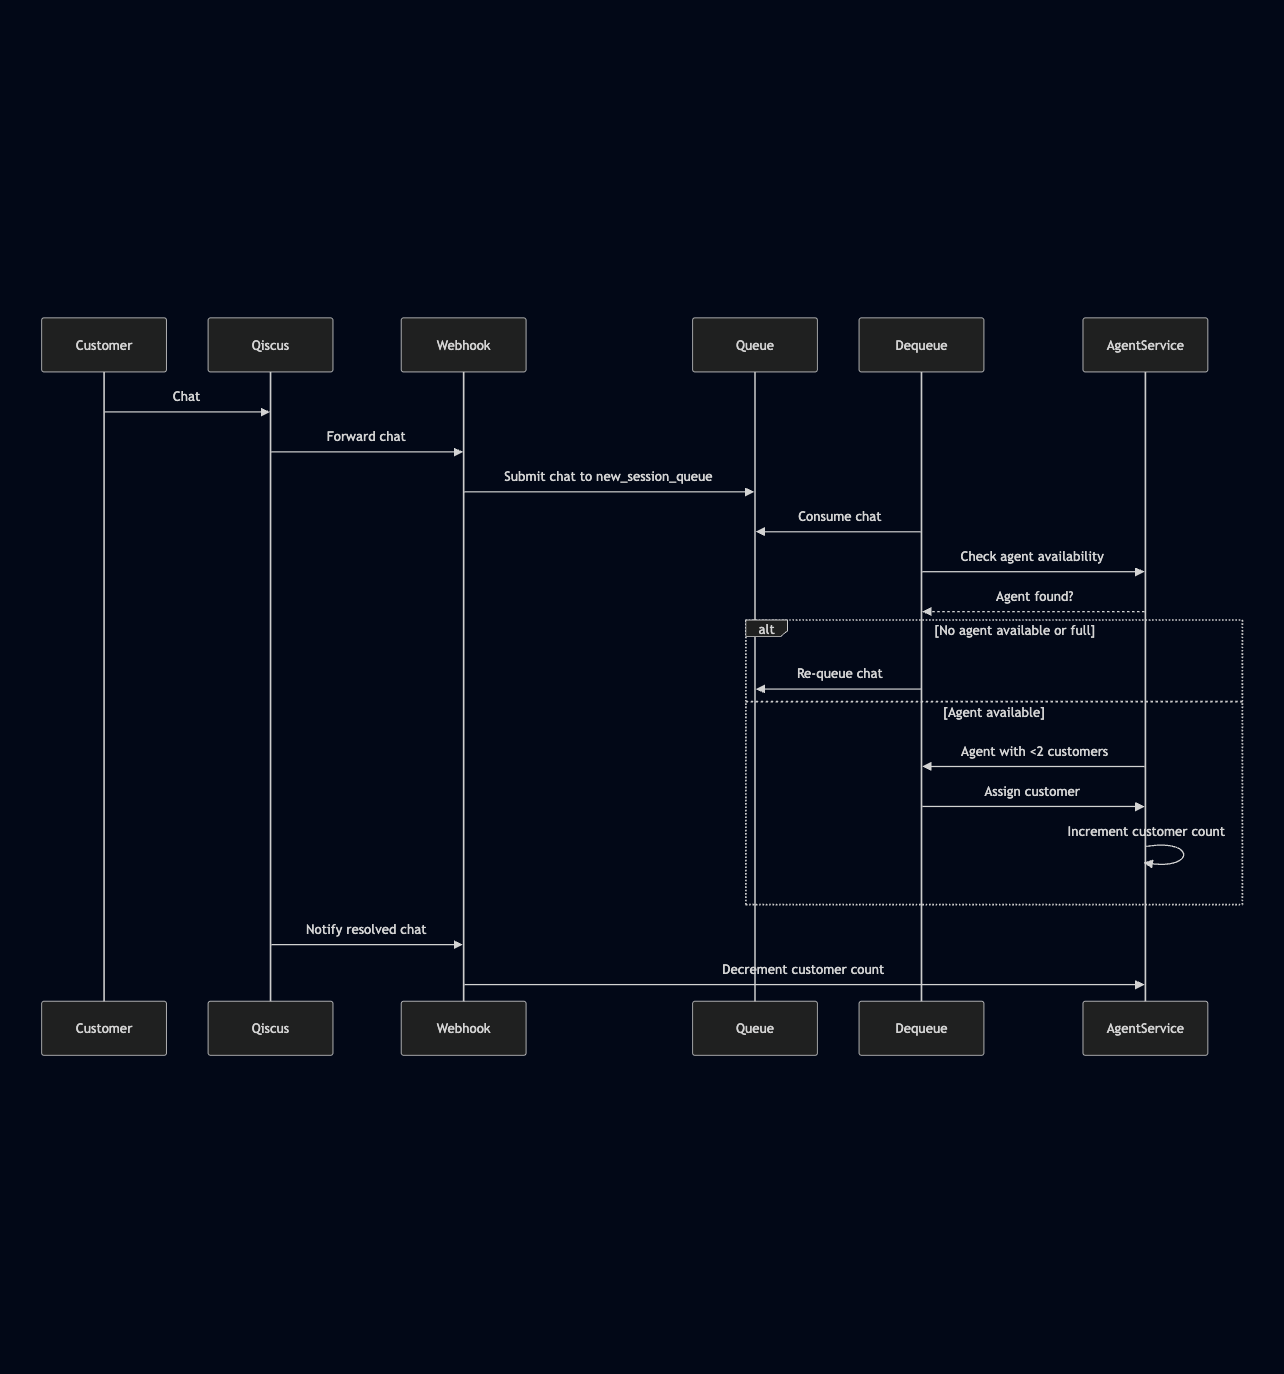
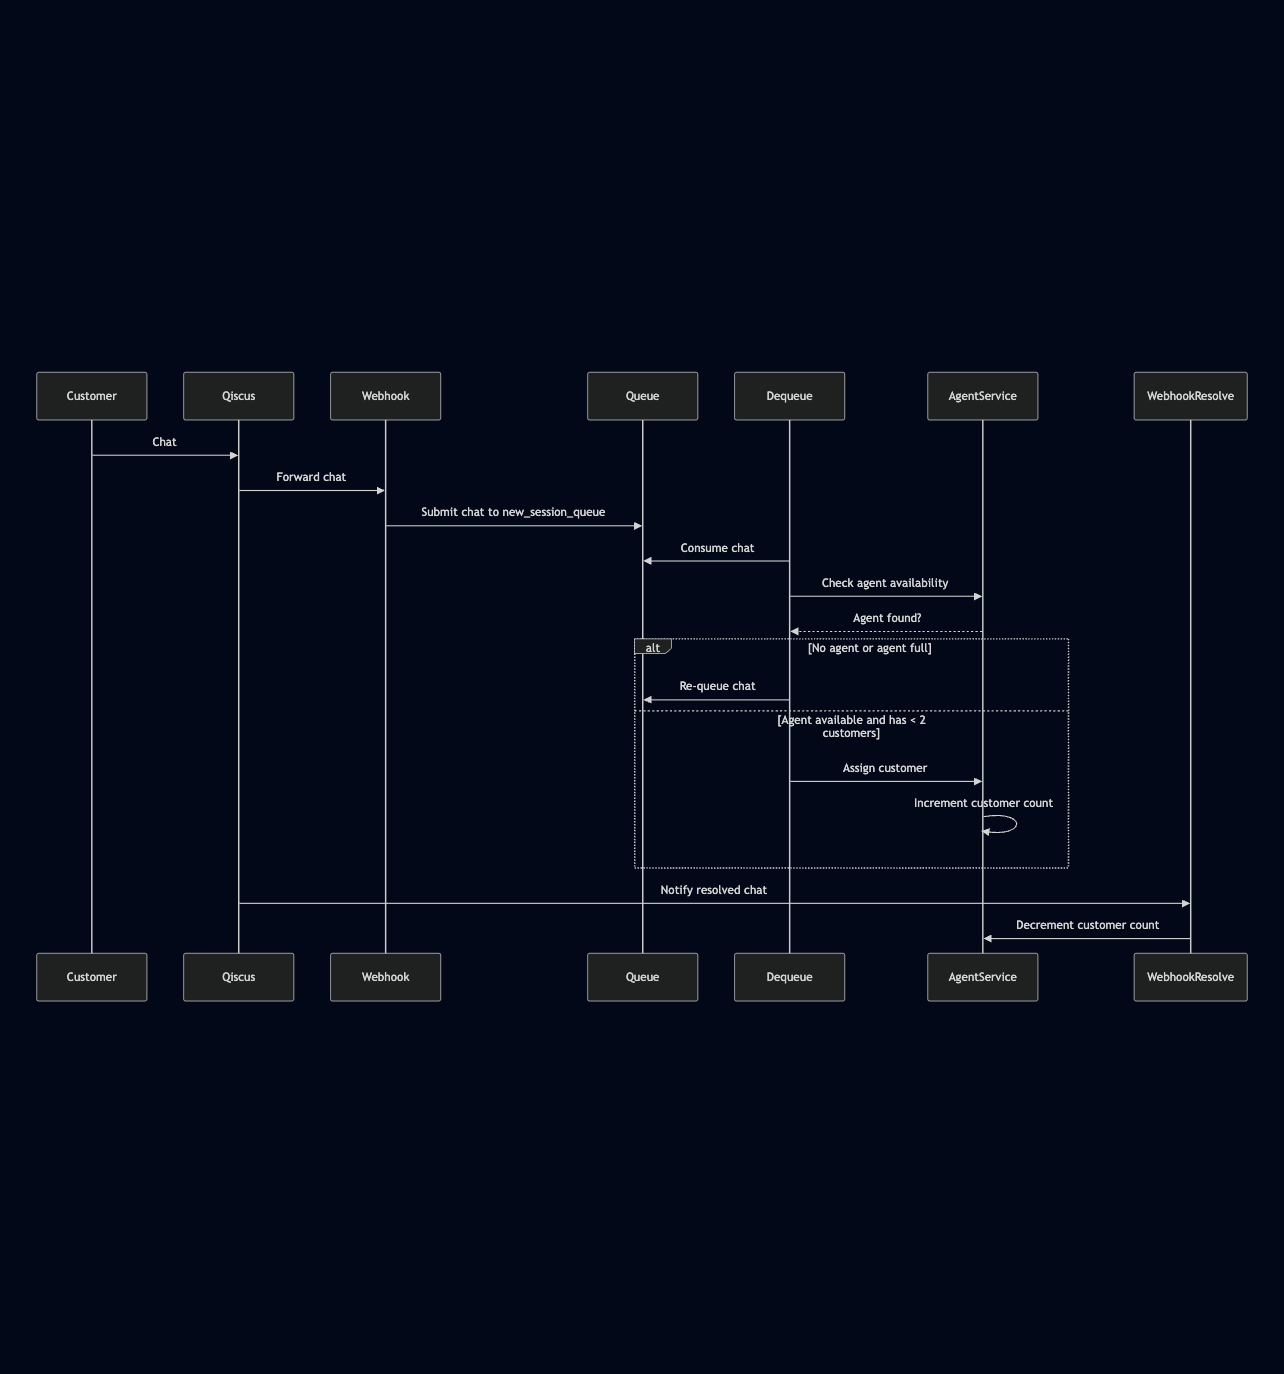
update sequence diagram

diff --git a/README.md b/README.md
@@ -68,6 +68,7 @@ sequenceDiagram
     participant Queue
     participant Dequeue
     participant AgentService
+    participant WebhookResolve
 
     Customer->>Qiscus: Chat
     Qiscus->>Webhook: Forward chat
@@ -77,17 +78,15 @@ sequenceDiagram
     Dequeue->>AgentService: Check agent availability
     AgentService-->>Dequeue: Agent found?
 
-    alt No agent available or full
+    alt No agent or agent full
         Dequeue->>Queue: Re-queue chat
-    else Agent available
-        AgentService->>Dequeue: Agent with <2 customers
+    else Agent available and has < 2 customers
         Dequeue->>AgentService: Assign customer
         AgentService->>AgentService: Increment customer count
     end
 
-    Qiscus->>Webhook: Notify resolved chat
-    Webhook->>AgentService: Decrement customer count
-
+    Qiscus->>WebhookResolve: Notify resolved chat
+    WebhookResolve->>AgentService: Decrement customer count
 ```
 
 #### Database Design
